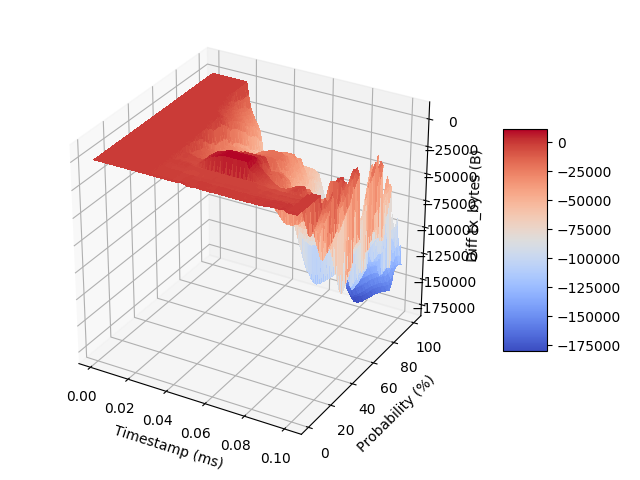
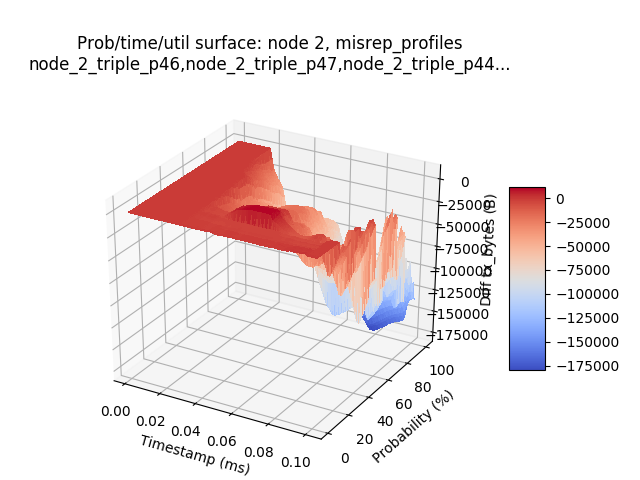
Add titles to surfaces

Changed region(s): [[0.0312, 0.0625, 0.9688, 1.0], [0.0938, 0.8125, 0.1562, 0.8438]]

diff --git a/analysis/graph/graph_helpers.py b/analysis/graph/graph_helpers.py
@@ -7,6 +7,7 @@ import matplotlib.pyplot as plt
 from matplotlib import cm
 from mpl_toolkits.mplot3d import Axes3D
 import numpy as np
+import textwrap
 
 script_dir = os.path.dirname(os.path.abspath(__file__))
 
@@ -222,10 +223,14 @@ def plot_surface_curve(
     ax.set_xlabel(xlabel)
     ax.set_ylabel(ylabel)
     ax.set_zlabel(zlabel)
+    ax_title = ax.set_title("\n".join(textwrap.wrap(title, 60)))
 
     # Save the plot as a PNG file
     print('saving graph to {}'.format(out_file_name))
 
     fig.tight_layout()
+    ax_title.set_y(1.05)
+    fig.subplots_adjust(top=0.8)
+
     fig.savefig(out_file_name)
     plt.close()
